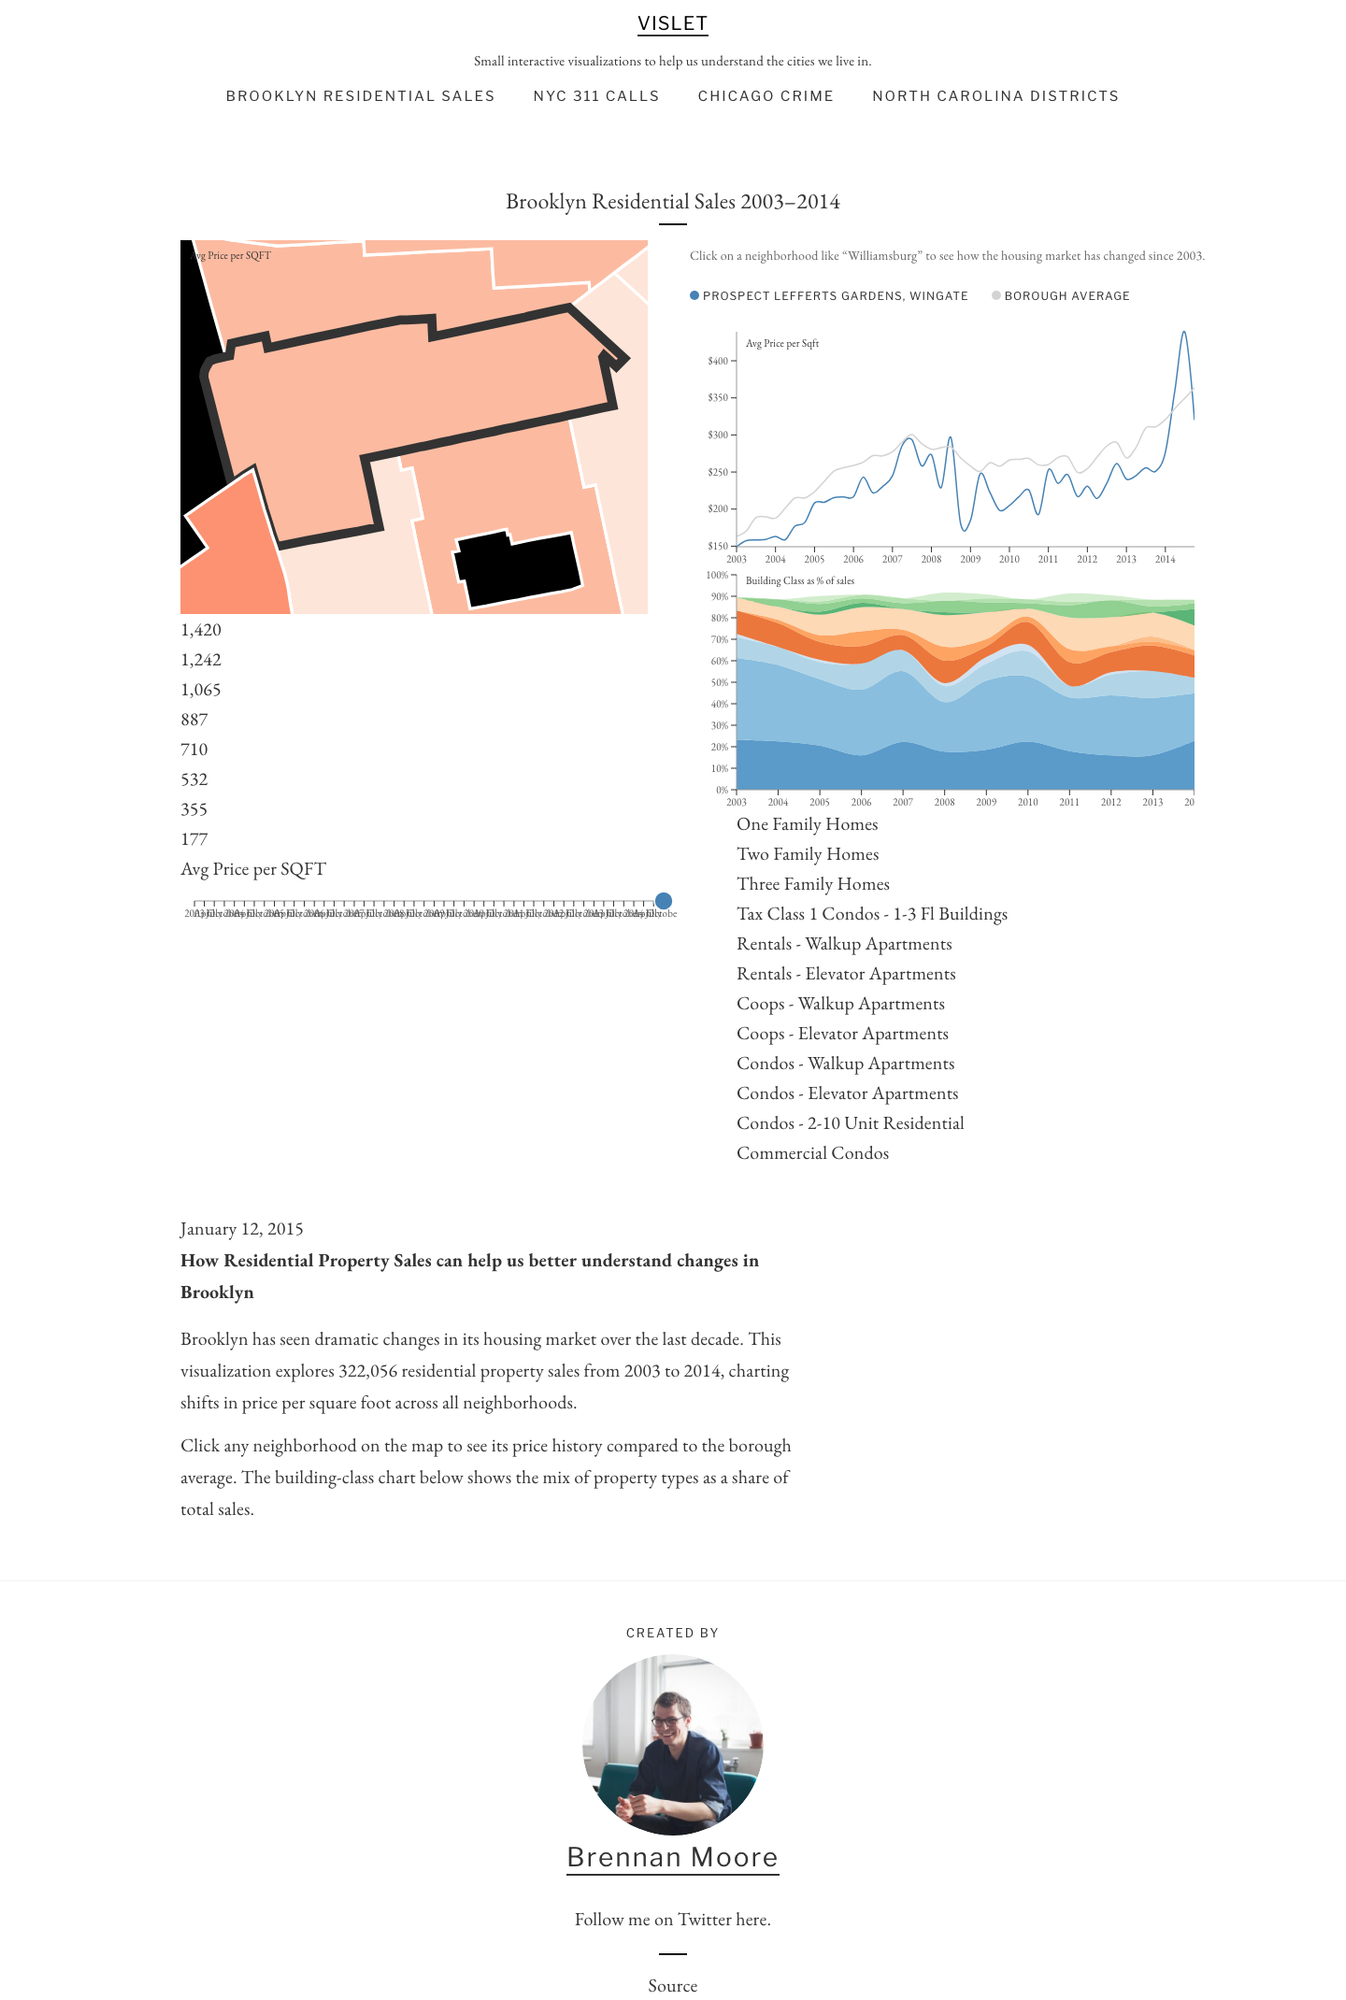
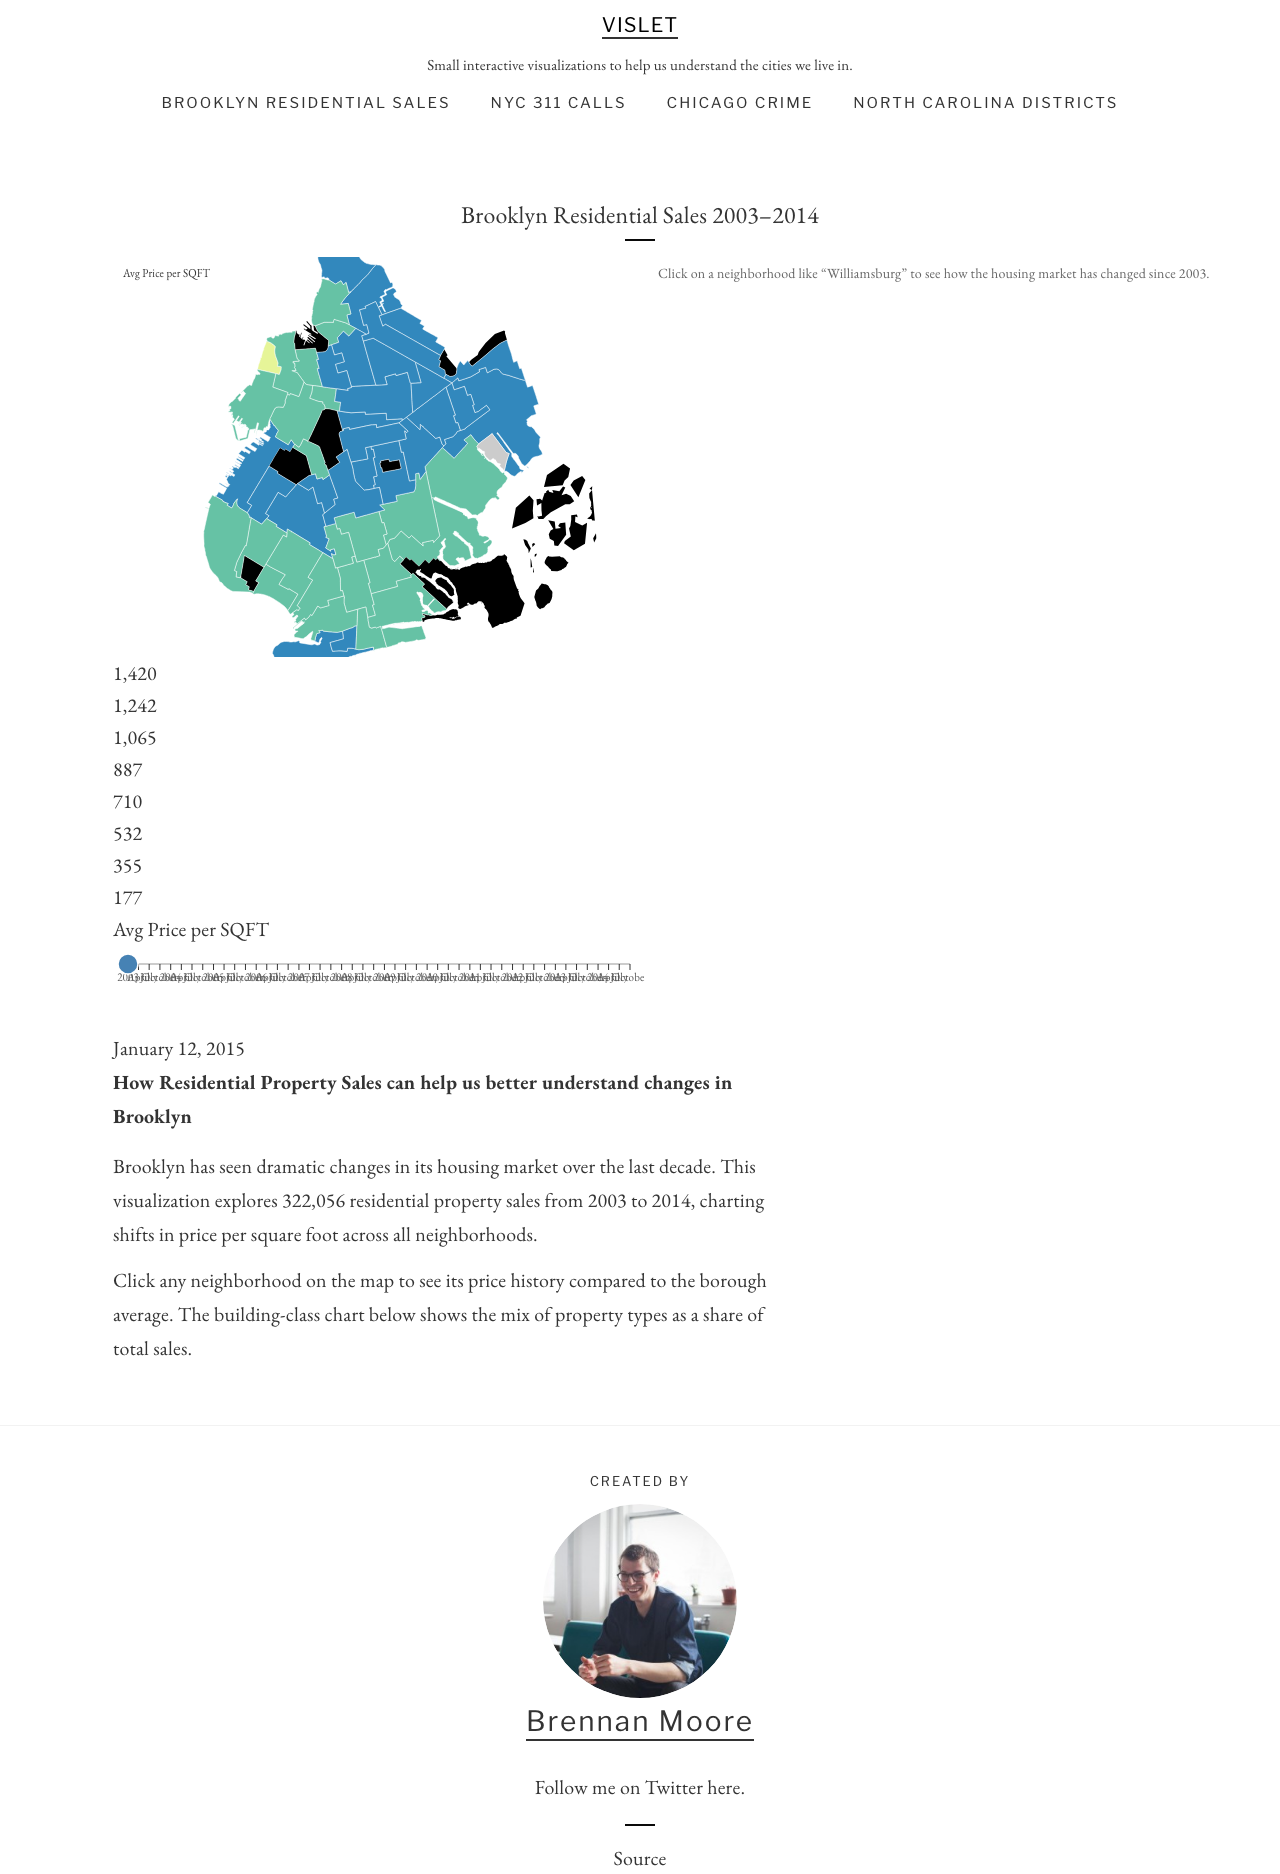
P3 chart-parity fixes: initial state, Spectral palette, selected visual, back link, slider (#28)
* qa: chart-parity diagnosis + updated new-site screenshots (post-P2.5)

Adds docs/qa/chart-parity.md — per-element legacy vs new diagnosis for all
5 pages using the Oct-27-2020 Brooklyn reference screenshots as ground truth.

Key findings:
- Brooklyn/Chicago: initial state always-selected (needs null default)
- Brooklyn map palette: Reds instead of Spectral blue-green
- Selected tract: missing steelblue fill + non-selected dimming
- "Back to overview" link missing on Brooklyn and Chicago

Also adds/updates:
- docs/qa/screenshots/legacy/ — uploaded authoritative Brooklyn reference
- docs/qa/screenshots/new/ — post-P2.5 new site (Brooklyn overview + selected,
  refreshed 311/home/nc)

* P3 chart-parity fixes: initial state, palette, selected visual, back-link, slider

Closes all P1+P2 findings from docs/qa/chart-parity.md:

P1.1 - Initial state is now overview (no neighborhood selected):
  Brooklyn.tsx + Chicago.tsx: useState<string|null>(null) instead of DEFAULT_SELECTED_ID.
  Charts panel conditionally rendered only when selectedId !== null.

P1.2 - Back to overview link added to Brooklyn (Chicago already had it).
  onClick sets selectedId = null, re-entering the dimmed/help-text overview state.

P1.3 - Brooklyn map palette switched from Reds to Spectral blue-green.
  SvgMap gains colorPalette prop (reds|spectral). Brooklyn passes spectral.
  globals.css adds .spectral-map .tract.colorN rules.

P1.4 - Selected-tract visual: steelblue fill + dim non-selected tracts.
[…]

diff --git a/src/components/pages/Brooklyn.tsx b/src/components/pages/Brooklyn.tsx
@@ -19,7 +19,6 @@ import type { LineGraphData } from '@/lib/line-chart';
 import { parseGraphState, serializeGraphState } from '@/lib/url-state';
 import type { BrooklynData, ColorDatum, DataPoint } from '@/types';
 
-const DEFAULT_SELECTED_ID = 'BK60';
 const MAP_WIDTH = 500;
 const MAP_HEIGHT = 400;
 const CHART_WIDTH = 490;
@@ -34,7 +33,7 @@ export function Brooklyn() {
   const [buildingClasses, setBuildingClasses] = useState<Record<string, string>>({});
   const [loading, setLoading] = useState(true);
 
-  const [selectedId, setSelectedId] = useState(DEFAULT_SELECTED_ID);
+  const [selectedId, setSelectedId] = useState<string | null>(null);
   const [hoveredId, setHoveredId] = useState<string | null>(null);
   const [selectedDate, setSelectedDate] = useState<number>(0);
 
@@ -52,17 +51,17 @@ export function Brooklyn() {
       setBuildingClasses(classes as Record<string, string>);
 
       const prices = typedSales['ALL']?.residentialPrices ?? [];
-      const lastDate = prices[prices.length - 1]?.date ?? 0;
+      const firstDate = prices[0]?.date ?? 0;
 
       const graphState = parseGraphState(window.location.search);
       if (graphState.kind === 'area') {
         setSelectedId(graphState.area);
         if (graphState.hover) setHoveredId(graphState.hover);
-        setSelectedDate(lastDate);
+        setSelectedDate(firstDate);
       } else if (graphState.kind === 'date') {
         setSelectedDate(graphState.date);
       } else {
-        setSelectedDate(lastDate);
+        setSelectedDate(firstDate);
       }
 
       setLoading(false);
@@ -72,6 +71,10 @@ export function Brooklyn() {
   // URL sync
   useEffect(() => {
     if (!salesData) return;
+    if (!selectedId) {
+      window.history.replaceState(null, '', window.location.pathname);
+      return;
+    }
     const qs = serializeGraphState({
       kind: 'area',
       area: selectedId,
@@ -127,7 +130,7 @@ export function Brooklyn() {
   }, [salesData]);
 
   const lineData: LineGraphData = useMemo(() => {
-    if (!salesData) return {};
+    if (!salesData || !selectedId) return {};
     const result: Record<string, Record<string, DataPoint[]>> = {
       ALL: { 'residentialPrices-mean': salesData['ALL']?.['residentialPrices-mean'] ?? [] },
     };
@@ -137,9 +140,11 @@ export function Brooklyn() {
 
   const areaData = useMemo(
     () =>
-      (salesData?.[selectedId]?.buildingClass ??
-        salesData?.['ALL']?.buildingClass ??
-        {}) as unknown as AreaData,
+      selectedId
+        ? ((salesData?.[selectedId]?.buildingClass ??
+            salesData?.['ALL']?.buildingClass ??
+            {}) as unknown as AreaData)
+        : null,
     [salesData, selectedId],
   );
 
@@ -152,7 +157,9 @@ export function Brooklyn() {
     [neighborhoodNames, colorData],
   );
 
-  const selectedName = formatName(neighborhoodNames[selectedId]) ?? selectedId;
+  const selectedName = selectedId
+    ? (formatName(neighborhoodNames[selectedId]) ?? selectedId)
+    : null;
 
   if (loading || !topology || !salesData) {
     return (
@@ -185,10 +192,11 @@ export function Brooklyn() {
             colorMax={mapColorMax}
             selectedId={selectedId}
             hoveredId={hoveredId ?? undefined}
-            onSelect={(id) => setSelectedId(id ?? DEFAULT_SELECTED_ID)}
+            onSelect={setSelectedId}
             onHover={setHoveredId}
             title="Avg Price per SQFT"
             formatHoverText={formatHoverText}
+            colorPalette="spectral"
           />
 
           <DateSlider
@@ -204,38 +212,43 @@ export function Brooklyn() {
             Click on a neighborhood like &ldquo;Williamsburg&rdquo; to see how the housing market
             has changed since 2003.
           </p>
-          <div className="svg-graphs-content">
-            <div className="graph-heading-container">
-              <div className="selected-neighborhood-name">
-                <span className="circle-key blue" />
-                <span className="graph-heading">{selectedName}</span>
+          {selectedId && selectedName && areaData && (
+            <div className="svg-graphs-content">
+              <a className="back" onClick={() => setSelectedId(null)} style={{ cursor: 'pointer' }}>
+                ← BACK TO OVERVIEW
+              </a>
+              <div className="graph-heading-container">
+                <div className="selected-neighborhood-name">
+                  <span className="circle-key blue" />
+                  <span className="graph-heading">{selectedName}</span>
+                </div>
+                <div className="avg-neighborhood-name">
+                  <span className="circle-key gray" />
+                  <span className="graph-heading">Borough Average</span>
+                </div>
               </div>
-              <div className="avg-neighborhood-name">
-                <span className="circle-key gray" />
-                <span className="graph-heading">Borough Average</span>
-              </div>
+
+              <LineGraph
+                data={lineData}
+                keys={['residentialPrices', 'residentialPrices-mean']}
+                startingDataset={selectedId}
+                width={CHART_WIDTH}
+                height={CHART_HEIGHT}
+                label="Avg Price per Sqft"
+                yAxisFormat={(v) => `$${v}`}
+                showTooltips
+              />
+
+              <AreaChart
+                data={areaData}
+                width={CHART_WIDTH}
+                height={CHART_HEIGHT}
+                label="Building Class as % of sales"
+                keyLabel={(abbrev) => buildingClasses[abbrev] ?? abbrev}
+                showTooltips
+              />
             </div>
-
-            <LineGraph
-              data={lineData}
-              keys={['residentialPrices', 'residentialPrices-mean']}
-              startingDataset={selectedId}
-              width={CHART_WIDTH}
-              height={CHART_HEIGHT}
-              label="Avg Price per Sqft"
-              yAxisFormat={(v) => `$${v}`}
-              showTooltips
-            />
-
-            <AreaChart
-              data={areaData}
-              width={CHART_WIDTH}
-              height={CHART_HEIGHT}
-              label="Building Class as % of sales"
-              keyLabel={(abbrev) => buildingClasses[abbrev] ?? abbrev}
-              showTooltips
-            />
-          </div>
+          )}
         </div>
       </div>
       {/* end .map-row */}

diff --git a/src/components/SvgMap.tsx b/src/components/SvgMap.tsx
@@ -70,6 +70,11 @@ export interface SvgMapProps {
   /** Animate a zoom-to-feature on selection (legacy default true). */
   zoomOnClick?: boolean;
   /**
+   * Color palette class applied to the wrapper div.
+   * 'reds' (default) = Reds scale (crime/311); 'spectral' = blue-green Spectral (price data).
+   */
+  colorPalette?: 'reds' | 'spectral';
+  /**
    * Optional overlay render-prop. Receives the live `GeoProjection` (already
    * fit to the viewport) so the consumer can project `[lng, lat]` → `[x, y]`
    * and return SVG (e.g. `<circle>` tract markers) drawn on top of the
@@ -102,6 +107,7 @@ export function SvgMap({
   reverseColorKey = true,
   colorKeyWidth,
   zoomOnClick = true,
+  colorPalette = 'reds',
   children,
 }: SvgMapProps) {
   const isIgnored = (id: string) => ignoredIds.some((ignored) => id.includes(ignored));
@@ -152,6 +158,7 @@ export function SvgMap({
     if (isIgnored(id)) return 'park';
     const parts = ['tract'];
     if (id === selectedId) parts.push('selected');
+    else if (selectedId != null) parts.push('dimmed');
     const colorClass = colorInfo?.classes.get(id);
     if (colorClass) parts.push(colorClass);
     return parts.join(' ');
@@ -165,8 +172,10 @@ export function SvgMap({
     keyValues = [...keyValues].reverse();
   }
 
+  const wrapperClass = colorPalette === 'spectral' ? 'spectral-map' : undefined;
+
   return (
-    <>
+    <div className={wrapperClass}>
       <svg width={width} height={height}>
         <g
           transform={zoomTransform}
@@ -209,6 +218,6 @@ export function SvgMap({
           width={Math.floor((colorKeyWidth ?? width) / Math.max(keyClasses.length, 1))}
         />
       )}
-    </>
+    </div>
   );
 }

diff --git a/src/components/pages/Chicago.tsx b/src/components/pages/Chicago.tsx
@@ -20,7 +20,6 @@ import type { ChicagoData, ColorDatum } from '@/types';
 
 // ─── constants ───────────────────────────────────────────────────────────────
 
-const DEFAULT_SELECTED_ID = '68';
 const MAP_WIDTH = 500;
 const MAP_HEIGHT = 400;
 const GRAPH_WIDTH = 450;
@@ -130,7 +129,7 @@ export function Chicago() {
   const [neighborhoodNames, setNeighborhoodNames] = useState<Record<string, string>>({});
   const [loading, setLoading] = useState(true);
 
-  const [selectedId, setSelectedId] = useState<string | null>(DEFAULT_SELECTED_ID);
+  const [selectedId, setSelectedId] = useState<string | null>(null);
   const [hoveredId, setHoveredId] = useState<string | null>(null);
   const [selectedType, setSelectedType] = useState<string>('ALL');
   const [selectedDate, setSelectedDate] = useState<number>(0);

diff --git a/src/styles/globals.css b/src/styles/globals.css
@@ -173,8 +173,12 @@ body {
   cursor: pointer;
 }
 .tract.selected {
+  fill: steelblue;
   stroke: #333;
   stroke-width: 1.5px;
+}
+.tract.dimmed {
+  opacity: 0.25;
 }
 .tract.park {
   fill: url(#hatch);
@@ -208,6 +212,36 @@ body {
 }
 .tract.color8 {
   fill: #40000a;
+}
+
+/* Spectral palette (blue-green) for price-per-sqft maps (Brooklyn).
+   color0=cheapest (blue) → color8=most expensive (red), matching legacy d3 Spectral scale. */
+.spectral-map .tract.color0 {
+  fill: #3288bd;
+}
+.spectral-map .tract.color1 {
+  fill: #66c2a5;
+}
+.spectral-map .tract.color2 {
+  fill: #abdda4;
+}
+.spectral-map .tract.color3 {
+  fill: #e6f598;
+}
+.spectral-map .tract.color4 {
+  fill: #ffffbf;
+}
+.spectral-map .tract.color5 {
+  fill: #fee08b;
+}
+.spectral-map .tract.color6 {
+  fill: #fdae61;
+}
+.spectral-map .tract.color7 {
+  fill: #f46d43;
+}
+.spectral-map .tract.color8 {
+  fill: #d53e4f;
 }
 
 /* Date slider handle */
